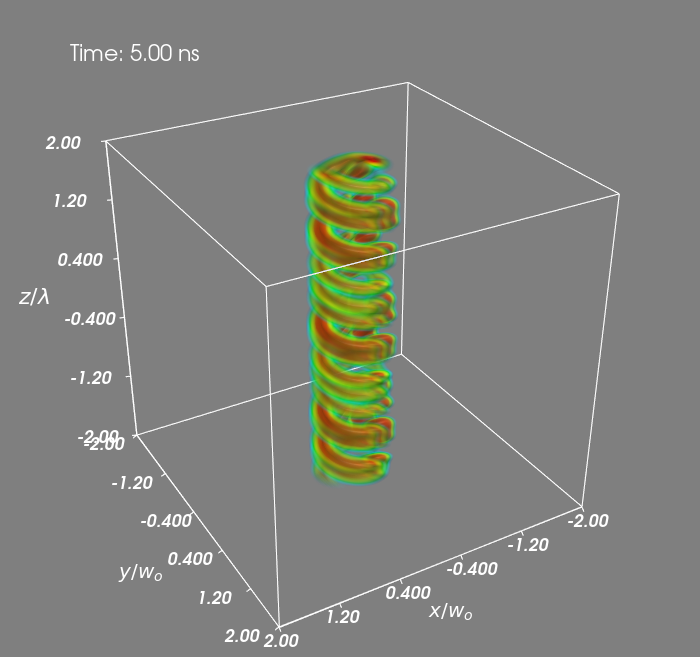
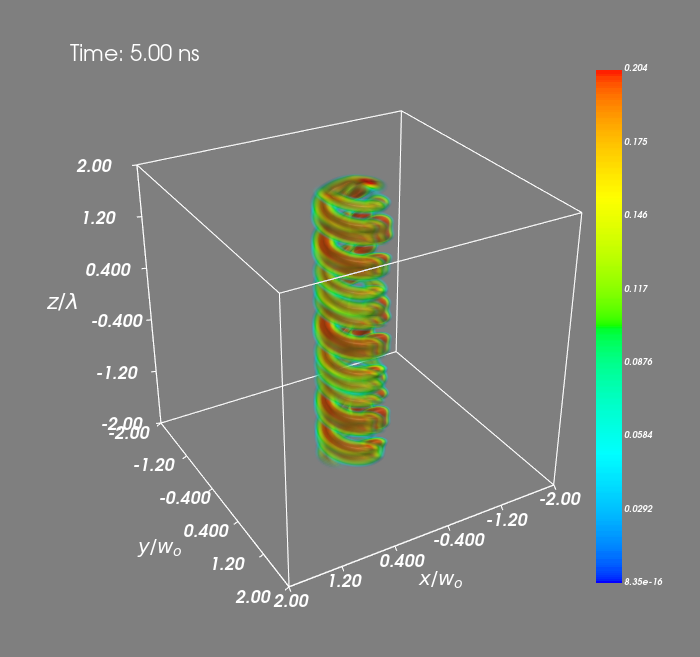
feat: 3D_bec

diff --git a/examples/time dependent solver examples/3D_bec.py b/examples/time dependent solver examples/3D_bec.py
@@ -1,0 +1,155 @@
+from tvtk.util import ctf
+import numpy as np
+from qmsolve import visualization
+from qmsolve import Hamiltonian, SingleParticle, TimeSimulation, init_visualization, nanoseconds,microseconds,nm,s,seconds, m,m_e, Å, J, Hz, kg, hbar, femtoseconds,picoseconds
+import math
+
+
+# conversion units
+
+hbar=1.054571596e-34
+clight=299792458.0 # speed of light in m.s-1
+echarge=1.602176462e-19 # electron charge in C
+emass=9.10938188e-31 # electron mass in kg
+pmass=1.67262158e-27 # proton mass in kg
+uaumass=1.66053873e-27 # unified atomic unit of mass (1/12 of (12)C) in kg
+epsilon0=1.0e7/(4*np.pi*clight*clight) # vacuum permittivity in C^2.kg-1.m-3.s^2
+kBoltzmann=1.3806503e-23 # constante de boltzmann
+aulength=4*np.pi*epsilon0*(hbar**2)/(emass*echarge*echarge)
+auenergy=hbar*hbar/(emass*aulength*aulength) # Hartree energy in J
+autime=hbar/auenergy
+conv_au_fs=autime/1.0e-15
+conv_C12_au=uaumass/emass
+conv_au_fs=autime/1.0e-15
+conv_au_ang=aulength/1.0e-10
+conv_K_au=kBoltzmann/auenergy
+
+# Parameters
+mass=86.909  # Atoms mass Cs 132.905 , Rb 86.909 (united atomic unit of mass)
+N=1000    # Number of condensed Bosons
+a=5.2383     # s-wave scattering length - Rb 5.2383 , Cs 3.45 - (nm)
+
+# Potentiel
+l=1             # Radial index
+w0=0.0300185    # Laser waist (mm) !1.0378725 pour l=1 0.0300185 pour l=6
+w1=0.0300185    # Laser waist (mm) !1.0378725 pour l=1 0.0300185 pour l=6
+muc=173.3014     # Pot. chim. du condensat (nK) !173.3014 pour l=1 86.7018 pour l=6
+Power=1.0       # Laser Power (W)
+delta=10.0      # Detuning / 2Pi (GHz)
+Is=16.0         # Saturation intensity (W/m^2)
+Gamma=6.0       # Natural width / 2Pi (MHz)
+
+mass=mass*conv_C12_au
+a=1*a/conv_au_ang
+Power=Power*autime/auenergy
+w0=w0*1.0e-3/aulength
+w1=w1*1.0e-3/aulength
+delta=2*np.pi*delta*conv_au_fs/1.0e6
+Is=Is*autime*aulength*aulength/auenergy
+Gamma=2*np.pi*Gamma*conv_au_fs/1.0e9
+muc=muc*(conv_K_au/1.0e9)
+
+factl=np.math.factorial(l)
+
+
+# calcul of gint
+gint = N*4*np.pi*a/mass
+print(' gint = ',gint )
+coeff1 = 2*(10**(-12))
+coeff2 = 1*(10**(-12))
+Ul=(Power*(Gamma**2)*(2**l))/(factl*4*np.pi*delta*Is*(w1**(2*l+2)))
+U0=(Power*(Gamma**2)*(2**l))/(factl*4*np.pi*delta*Is*(w0**(2*l+2)))
+print('U1 = ', Ul)
+print('U0 = ', U0)
+omega_l=(1/mass)*(((2**l)*mass*Ul))**(1/(l+1))
+
+length_l=np.sqrt(1/(mass*omega_l))
+
+
+#Characteristic sizes (au)
+
+#omega_l=(one/mass)*(((two**l)*mass*Ul)**(one/real(l+1,real_8)))
+Sizex=2*((muc/Ul)**(1/(2*l)))
+Sizez=2*((muc/U0)**(1/(2*l)))
+Sizey=Sizex
+Rx=Sizex/2
+Ry=Sizey/2
+Rz=Sizez/2
+omega_z = (2/Sizez)*np.sqrt(2*muc/mass)
+length_z=np.sqrt(1/(mass*omega_z))
+print(' Sizex = ',Sizex*(conv_au_ang/1.0e4),' microns.' )
+print(' Sizey = ',Sizey*(conv_au_ang/1.0e4),' microns.')
+print(' Sizez = ',Sizez*(conv_au_ang/1.0e4),' microns.')
+
+
+#interaction potential
+def LG_potential(particle):
+    rho = np.sqrt(particle.x**2+particle.y**2)
+
+    V = (0.5**l)*omega_l*((rho/length_l)**(2*l))*np.exp(-2*(rho**2)/w0**2) 
+    + (0.5**l)*omega_l*((particle.z/length_l)**(2*l))*np.exp(-2*(particle.z**2)/w0**2) 
+    return V
+
+
+def non_linear_f(psi,t,particle):
+    return gint*((np.abs(psi))**2)
+
+N = 100
+
+#build the Hamiltonian of the system
+H = Hamiltonian(particles=SingleParticle(),
+                potential=LG_potential,
+                spatial_ndim=3, N=100,Nz = 100,extent=100* Å,z_extent=100* Å)
+
+
+
+def initial_wavefunction(particle):
+    V = LG_potential(particle)
+    #rho = np.sqrt(particle.x**2+particle.y**2)
+    #psi = np.exp(-0.5*mass*(omega_l*rho**2 + omega_z*particle.z**2))
+
+    psi = np.zeros(particle.x.shape, dtype = np.complex128)
+    for i in range(N):
+        for j in range(N):
+            for k in range(N):
+                if muc > V[i,j,k]:
+                    psi[i,j,k] = np.sqrt( (muc - V[i,j,k]) / gint)
+                else:
+                    psi[i,j,k] = 0
+    return psi
+
+"""
+eigenstates = H.solve( max_states = 32, method ='lobpcg-cupy')
+print(eigenstates.energies)
+
+
+visualization = visualization.init_visualization(eigenstates)
+visualization.plot_type = 'contour'
+
+#visualization.plot_eigenstate(0)
+
+#visualization.plot_eigenstate(26)
+visualization.animate()
+"""
+
+
+#=========================================================================================================#
+# Set and run the simulation
+#=========================================================================================================#
+
+
+total_time = 100 * femtoseconds
+sim = TimeSimulation(hamiltonian = H, method = "split-step-cupy")
+sim.run(initial_wavefunction, total_time = total_time, dt = total_time/1000., store_steps = 20,non_linear_function=non_linear_f)
+
+
+#=========================================================================================================#
+# Finally, we visualize the time dependent simulation
+#=========================================================================================================#
+
+visualization = init_visualization(sim)
+#visualization.plot(t = 0 * femtoseconds,xlim=[-15* Å,15* Å], ylim=[-15* Å,15* Å], potential_saturation = 0.5, wavefunction_saturation = 0.2)
+visualization.plot(t = 0 ,unit = femtoseconds,contrast_vals=[0.9,1])
+#visualization.animate(unit = femtoseconds,contrast_vals=[0.99,1])
+#visualization.plot_type = 'contour'
+#visualization.animate(xlim=[-15* Å,15* Å], ylim=[-15* Å,15* Å], potential_saturation = 0.5, wavefunction_saturation = 0.2, animation_duration = 10, save_animation = False)

diff --git a/qmsolve/visualization/single_particle_3D.py b/qmsolve/visualization/single_particle_3D.py
@@ -232,7 +232,7 @@ class VisualizationSingleParticle3D(Visualization):
 
                     yield
 
-            animation()
+            ua = animation()
             mlab.show()
 
 
@@ -288,7 +288,7 @@ class VisualizationSingleParticle3D(Visualization):
 
                     yield
 
-            animation()
+            ua = animation()
             mlab.show()
 
 
@@ -356,7 +356,7 @@ class VisualizationSingleParticle3D(Visualization):
 
 
                     yield
-            animation()
+            ua = animation()
             mlab.show()
 
 
@@ -630,7 +630,7 @@ class TimeVisualizationSingleParticle3D(TimeVisualization):
 
     def plot(self, t, L_norm = 1, Z_norm = 1,figsize=(7, 7),unit = femtoseconds, contrast_vals= [0.1, 0.25]):
 
-        mlab.figure(1, size=(700, 700))
+        mlab.figure(1,bgcolor=(0,0,0), size=(700, 700))
         self.simulation.Ψ_plot = self.simulation.Ψ/self.simulation.Ψmax
         index = int((self.simulation.store_steps)/self.simulation.total_time*t)   
         """
@@ -713,8 +713,8 @@ class TimeVisualizationSingleParticle3D(TimeVisualization):
            # z_latex = mlabtex(0.,0.,.0,x_latex)
             
         
-            mlab.axes(xlabel=x_latex, ylabel=y_latex, zlabel=z_latex,nb_labels=6 , ranges = (-L,L,-L,L,-Z,Z) )
-            #mlab.axes(xlabel='x [Å]', ylabel='y [Å]', zlabel='z [Å]',nb_labels=6 , ranges = (-L,L,-L,L,-Z,Z) )
+            #mlab.axes(xlabel=x_latex, ylabel=y_latex, zlabel=z_latex,nb_labels=6 , ranges = (-L,L,-L,L,-Z,Z) )
+            mlab.axes(xlabel='x [Å]', ylabel='y [Å]', zlabel='z [Å]',nb_labels=6 , ranges = (-L,L,-L,L,-Z,Z) )
             mlab.view(azimuth=60,elevation=60,distance=N*4)
             colorbar = mlab.colorbar(orientation = 'vertical')
             colorbar.scalar_bar_representation.position = [0.85, 0.1]
@@ -783,7 +783,7 @@ class TimeVisualizationSingleParticle3D(TimeVisualization):
             mlab.outline()
             x_latex = 'x/w_o'
             y_latex = 'y/w_o'
-            z_latex = '$z/\lambda$'
+            z_latex = 'z/\lambda'
             
            # x_latex = mlabtex(0.,0.,.0,x_latex)
             #y_latex = mlabtex(0.,0.,.0,x_latex)
